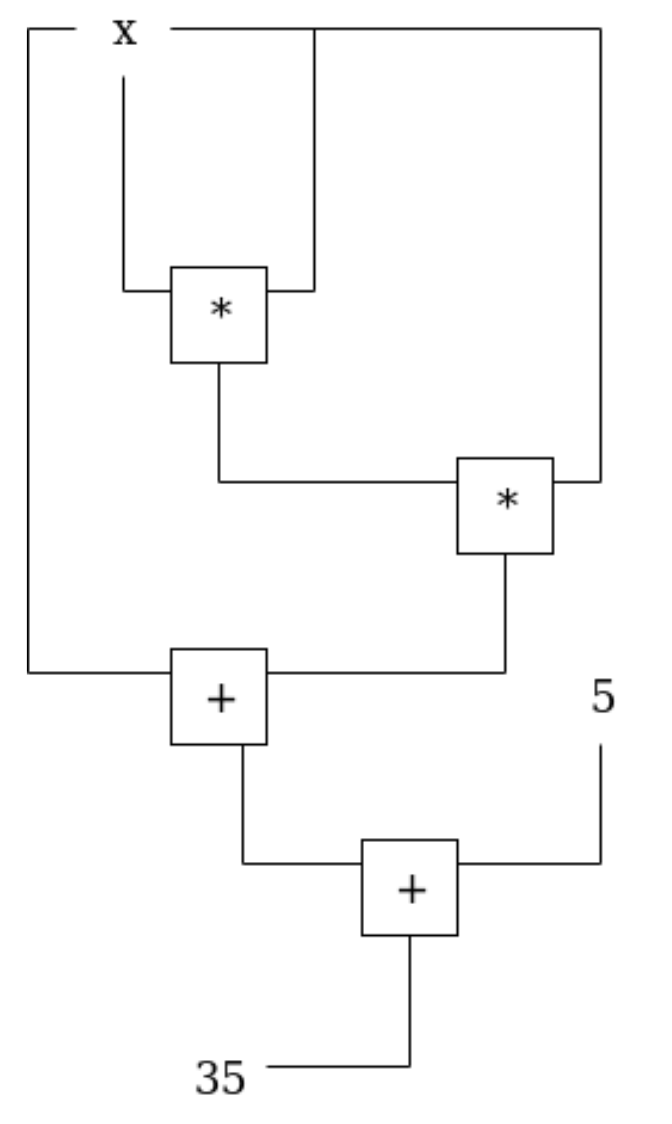
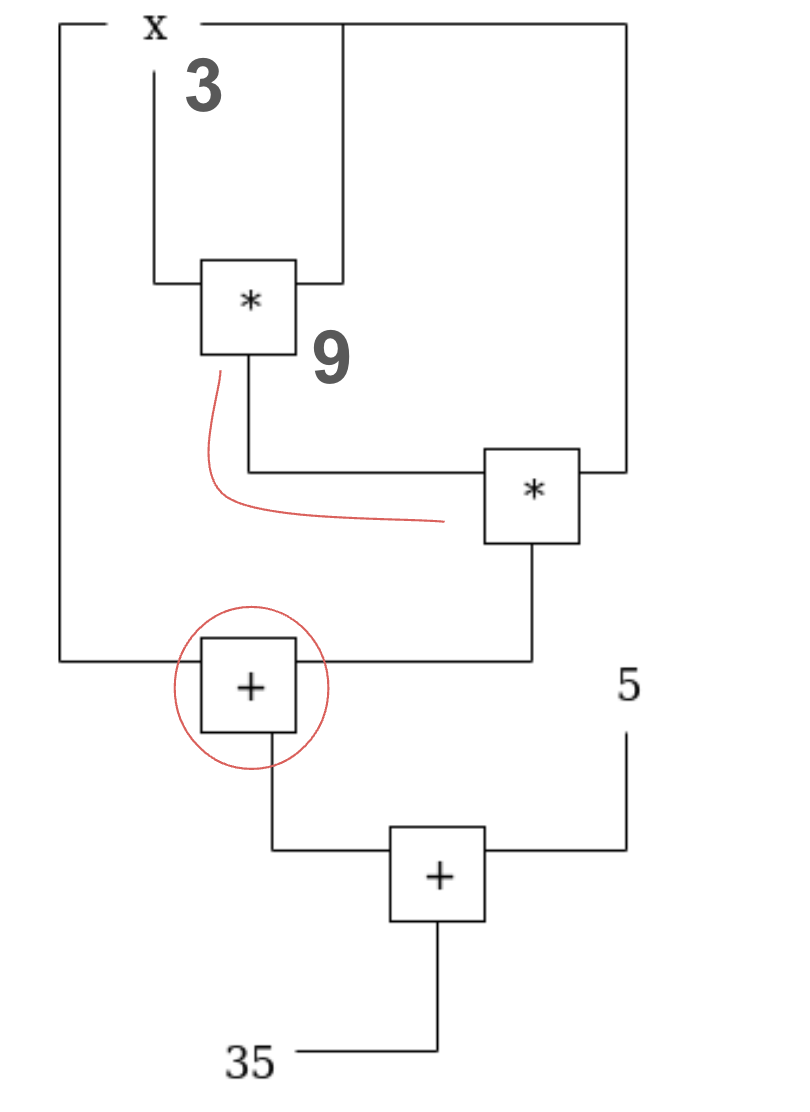
week4 draft

Changed region(s): [[0.0312, 0.0, 0.9062, 0.9784], [0.875, 0.5809, 0.9375, 0.6421]]

diff --git a/2024/week4_plonk.md b/2024/week4_plonk.md
@@ -1,3 +1,15 @@
 # Week 4 - PLONK
 
-TODO - complete this module.
+The exercise this week is required to do, your group have to publish a blogpost on PLONK and present at the end of week and finish Rustlings.
+
+## Practical
+
+Many zk proof systems are written in Rust. Learn Rust with [Rustlings](https://rustlings.cool/). It's a game with nearly 100 challenges. You are required to finish it.
+
+## Study
+
+When you start to learn ZK proof system, you are really advised to start from PLONK than any other proof system. There're a bunch of amazing articles out there, but instead of jumpping into rebbit hole, you should start from [Vitalik's blog post](https://vitalik.eth.limo/general/2019/09/22/plonk.html) and focus on reading it all.
+With this article you can understand what is widely used plonkish style of circuit arithemization. For this article, you may be unable to understand all the details at once, but you should at least understand what does this diagram mean:
+![Vitalik's circuit](./assets/vitalik-circuit.png)
+
+# 💪 Exercises
